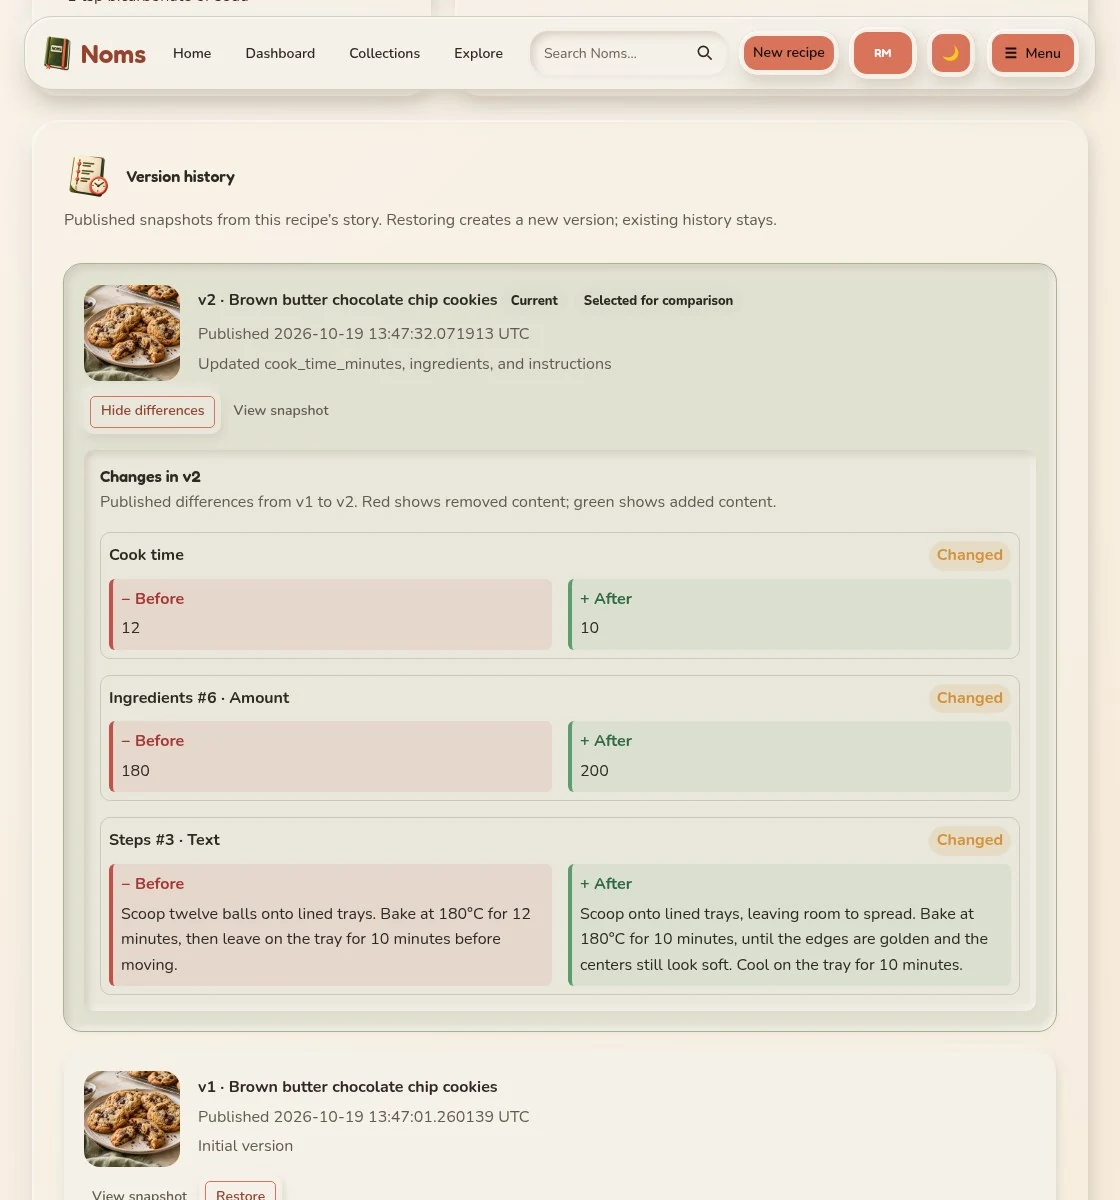
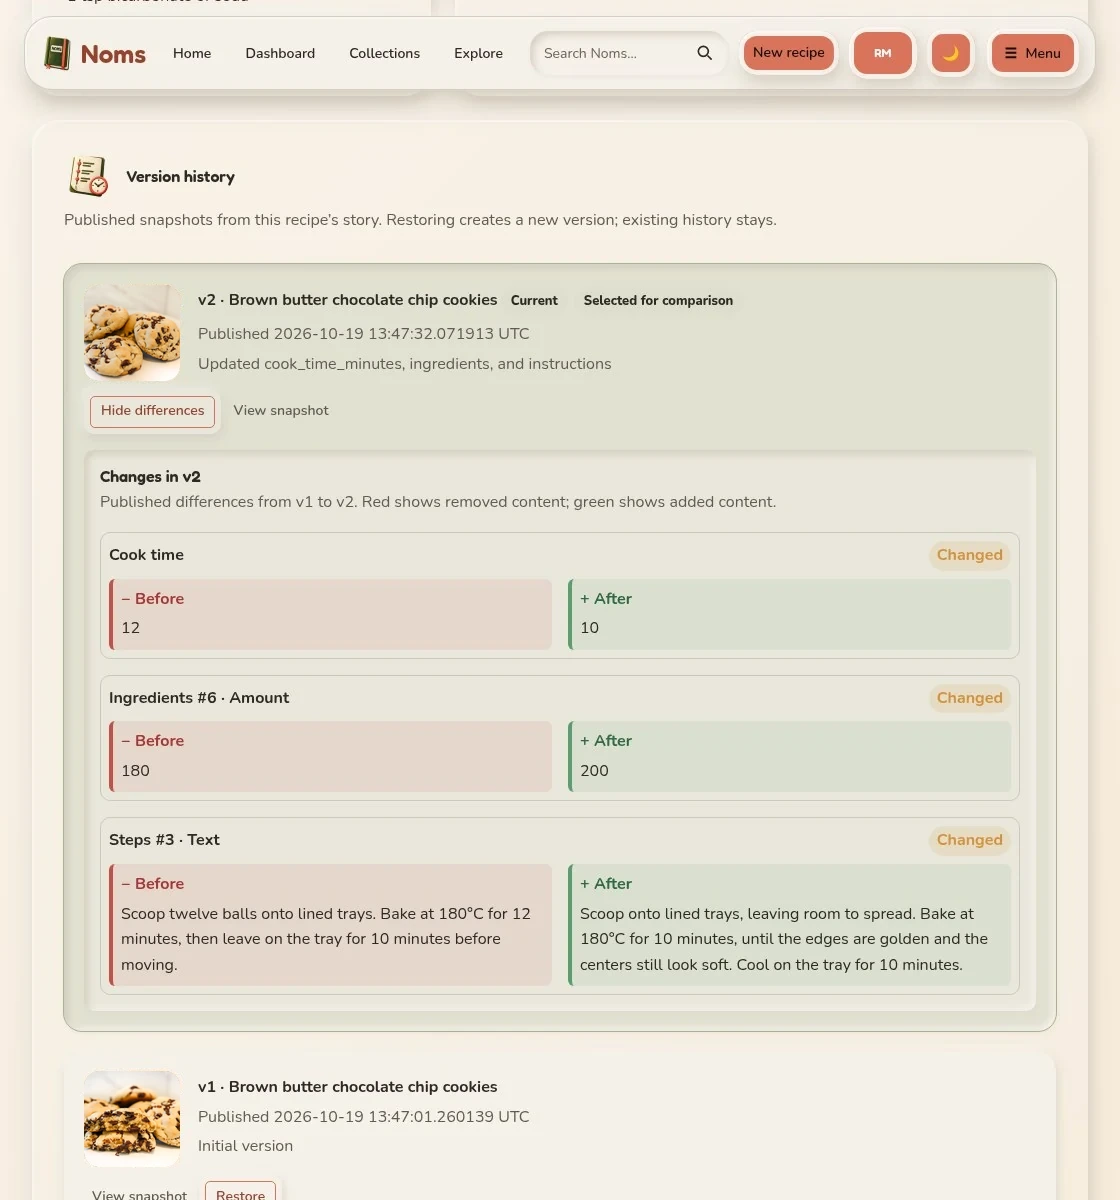
Use real food photography in landing-page screenshots

Changed region(s): [[0.0625, 0.2158, 0.1875, 0.3392], [0.0625, 0.8942, 0.1875, 0.9867]]

diff --git a/src/pages/home.rs b/src/pages/home.rs
@@ -183,6 +183,17 @@ pub fn Home() -> Element {
                     Link { to: Route::About {}, "About Noms" }
                     Link { to: Route::HowTo {}, "How to use Noms" }
                 }
+                p { class: "landing-tiny",
+                    "Photo credits · "
+                    a { href: "https://commons.wikimedia.org/wiki/File:Yangnyeom-chikin_1.jpg", "Korean fried chicken by anokarina" }
+                    " ("
+                    a { href: "https://creativecommons.org/licenses/by-sa/2.0/", "CC BY-SA 2.0" }
+                    ", cropped) · "
+                    a { href: "https://commons.wikimedia.org/wiki/File:You_Po_Mian%EF%BC%88_Oil_poured_noodles%EF%BC%89.webp", "Chili oil noodles by syctown" }
+                    " ("
+                    a { href: "https://creativecommons.org/licenses/by-sa/4.0/", "CC BY-SA 4.0" }
+                    ", cropped)"
+                }
             }
         }
     }

diff --git a/assets/landing/README.md b/assets/landing/README.md
@@ -1,10 +1,24 @@
 # Landing-page imagery
 
 The kitchen journal landing page implements the approved proposal 6 revision.
-`table.webp` and `cooking.webp` are generated kitchen photography. The other
-WebP files show the actual local Noms app, populated with synthetic recipes and
-the example cook Robert McRobertson. The food photographs in those captures
-were generated and uploaded through the recipe editor.
+`table.webp` and `cooking.webp` are generated kitchen photography. The app
+screenshots show local synthetic recipes and the example cook Robert
+McRobertson. Their food thumbnails use the real photographs listed below,
+cropped and composited into the original screenshots.
+
+| Photo | Source and license |
+| --- | --- |
+| Butter croissants | [Close-Up Shot of Croissants](https://www.pexels.com/photo/close-up-shot-of-croissants-6202224/), Pexels |
+| Chocolate layer cake | [Sliced chocolate on a ceramic plate](https://www.pexels.com/photo/close-up-photo-of-sliced-chocolate-on-a-ceramic-plate-4110007/), Pexels |
+| Korean fried chicken | [Yangnyeom-chikin 1 by anokarina](https://commons.wikimedia.org/wiki/File:Yangnyeom-chikin_1.jpg), [CC BY-SA 2.0](https://creativecommons.org/licenses/by-sa/2.0/), cropped |
+| Mushroom burger | [Gourmet cheeseburger with mushrooms](https://www.pexels.com/photo/delicious-gourmet-cheeseburger-with-mushrooms-31138240/), Pexels |
+| Chili garlic oil noodles | [You Po Mian by syctown](https://commons.wikimedia.org/wiki/File:You_Po_Mian%EF%BC%88_Oil_poured_noodles%EF%BC%89.webp), [CC BY-SA 4.0](https://creativecommons.org/licenses/by-sa/4.0/), cropped |
+| Mushroom ramen | [Japanese ramen noodle bowl with toppings](https://www.pexels.com/photo/delicious-japanese-ramen-noodle-bowl-with-toppings-29519810/), Pexels |
+| Cookies in Explore and version 1 | [Close-up of chocolate chip cookies](https://www.pexels.com/photo/a-close-up-shot-of-chocolate-chip-cookies-14133096/), Pexels |
+| Cookies in version 2 | [Cookies on a white ceramic plate](https://www.pexels.com/photo/brown-cookies-on-white-ceramic-plate-14133098/), Pexels |
+
+Pexels photos are used under the [Pexels license](https://www.pexels.com/license/).
+The chicken and noodle photo crops retain their respective CC BY-SA licenses.
 
 `calculator-checklist.webp` composes captures of the actual calculator and mobile
 ingredient checklist: chili garlic oil noodles scaled from two to four servings,
